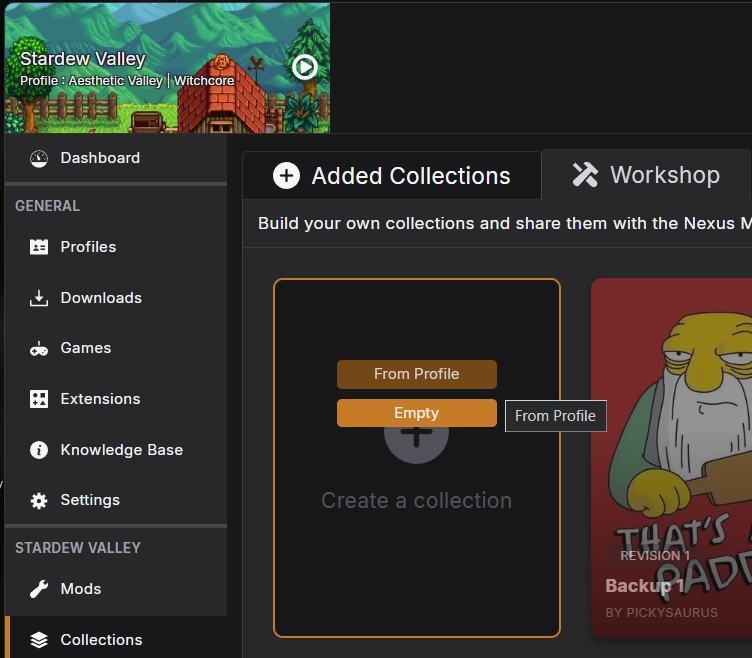
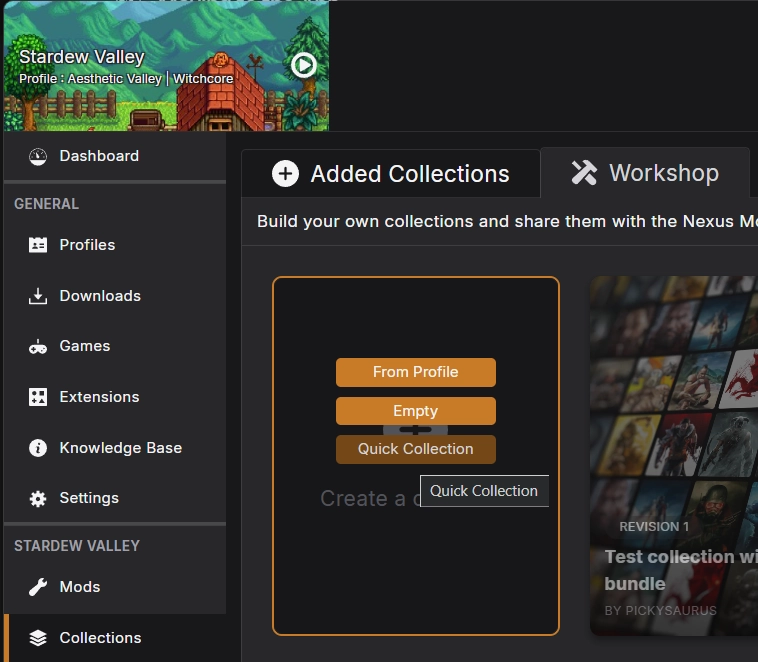
Updated migration docs to include Vortex Quick Collections

diff --git a/docs/users/gettingstarted/MovingToTheApp.md b/docs/users/gettingstarted/MovingToTheApp.md
@@ -8,22 +8,31 @@ In this guide, we will cover the basics of importing existing mods from other mo
 ## Vortex
 [Vortex](https://www.nexusmods.com/site/mods/1) is the predecessor to the app and is a popular choice among Stardew Valley modders. With full Nexus Mods integration, there are two options for importing your mods to the app. 
 
-=== "Option 1 - Making a Collection"
-    ??? note "Note - Customised and Off-site Mods"
-        If you have altered a mod in any way after installing it, these changes may not be preserved when importing into the app. Mods installed from sources other than Nexus Mods may not be exported. 
+=== "Option 1 - Making a Quick Collection"
+    !!! warning "Quick Collections require Vortex 1.14.0 or later"
 
-    Using the collections feature, your existing mod setup can be exported and re-downloaded through the app. To make a collection from your active profile in Vortex, follow the instructions below:
+    Using the Quick Collections feature, your existing mod setup can be exported and re-downloaded through the app. To make a collection from your active profile in Vortex, follow the instructions below:
 
     1. Open the "Collections" tab from the side menu in Vortex.
     2. Click on the "Workshop" tab at the top of the page. 
     3. Hover over "Create a collection" and select "From Profile". Give your collection a name and press "Create". 
-    ![The option to create a collection in Vortex.](../images/VortexCreateCollection.webp)
-        - (Optional) In the collection edit screen, we recommend selecting all the mods with ++ctrl+"A"++, clicking "Set version" on the bottom toolbar and choose "Exact only". This will ensure that the exact same mod file is downloaded into the app, rather than an updated version. 
-    4. Click "Upload New" at the top of the page to upload your collection to the Nexus Mods website. There may be some warnings to resolve, if you need help with these errors please post on the [Vortex forums](https://forums.nexusmods.com/forum/4306-vortex-support/).
-    5. Once the upload has completed, click "Open in Browser" in the notification.
-    6. On the collection webpage, set a title, summary, category, image and description. This can be anything as the collection isn't intended to be shared publicly. 
-    7. At the top of the page, click "Save & publish revision 1" and in the pop-up select "Unlisted" and click "Publish". 
-    8. Navigate to the "Mods" tab, select all your mods with ++ctrl+"A"++ and click "Disable" on the bottom toolbar, then click "Deploy Mods" on the top toolbar to confirm the changes. This will remove the mod files from the game.
+    ![The option to create a Quick Collection in Vortex.](../images/VortexCreateCollection.webp){ style="max-height: 400px; display: block;" }
+    4. Read through the list of what is and is not included to ensure the feature will do what you expect.
+    ![The Quick Collection creation wizard showing the limitations of the system.](../images/VortexQuickCollection1.webp){ style="max-height: 300px; display: block;" }
+    5. Give you collection a name (or use the default) and proceed to the upload step.
+    ![The Quick Collection creation wizard showing the limitations of the system.](../images/VortexQuickCollection2.webp){ style="max-height: 300px; display: block;" }
+    6. Click "Open in Browser" from the notification to see your draft collection on the website. 
+    ![The Quick Collection creation wizard showing the limitations of the system.](../images/VortexQuickCollection3.webp)
+    7. On the Nexus Mods website, you'll be presented with your collection page. You'll need to fill in a few options to make it postable.
+    ![The option to publish the collection on Nexus Mods.](../images/NexusModsCollectionPublish.webp)
+    The following steps are required to publish:
+        - Summary: Put anything you like in here.
+        - Category: Miscellaneous is recommended.
+        - Image: Add an image next to the title. 
+        - Description: Make an edit to the page description.
+    8. Next, click the "Save & Publish Revision 1" button and in the pop-up make sure you select **Unlisted**. This will ensure your collection isn't added to the searchable options visible to all users.
+    ![The option to publish the collection on Nexus Mods.](../images/NexusModsCollectionListing.webp){ style="max-height: 300px; display: block;" }
+    8. Back in Vortex, navigate to the "Mods" tab, select all your mods with ++ctrl+"A"++ and click "Disable" on the bottom toolbar, then click "Deploy Mods" on the top toolbar to confirm the changes. This will remove the mod files from the game.
     9. Close Vortex.
     10. Open the app and press the "Add collection" button on the collection page to begin the download/install process.
 
@@ -45,6 +54,7 @@ In this guide, we will cover the basics of importing existing mods from other mo
     8. Press ++ctrl+"A"++ to select all mod archives in the folder.
     9. Click "Open" and wait for the app to import all the mods (this can take several minutes).
     10. You can now start adding these mods to your loadout.
+    !!! tip "Select multiple mods from the library using ++ctrl+"Click"++ or ++shift+"click"++"
 
 
 ## Stardrop
@@ -85,7 +95,14 @@ By default, Stardrop uses a subfolder of "Mods" in the game directory. To preser
 9. You can now start adding these mods to your loadout.
 
 ## Manually Installed Mods
-Some users choose to install their mods by manually copying and pasting the downloaded mod files into their game folder. This method doesn't have a clean way to import files so the best we can do is clean up your game folder read for use with the app.
+!!! warning "Manual Mods will be deleted when uninstalling the app"
+    If you had manually installed mods when managing the game, they are added to the loadout as a special mod. Deleting the loadout of uninstalling the app will remove all of these files and revert your game folder back to game files only. 
+
+Some users choose to install their mods by manually copying and pasting the downloaded mod files into their game folder. If you manage the game with mods already installed, the app will figure out which files are from the base game and which are from mods then adds all non-game files to [External Changes](../features/ExternalChanges.md) in the loadout. 
+
+It is recommended that you reinstall the mods as part of the loadout and then remove them from "External Changes". 
+
+If you'd rather start fresh with the app, here's how to clean up your game folder.
 
 1. Open your game installation folder.
 2. Move the "Mods" folder so that it is no longer inside the Stardew Valley game folder (you can also delete it, but that is not recommended).
